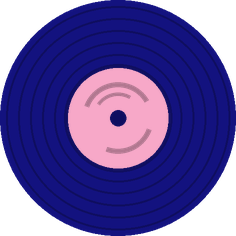
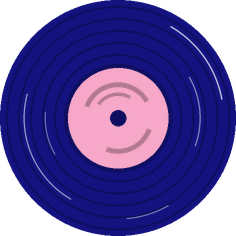
Records: white groove highlights so the spin reads

diff --git a/records/spin.html b/records/spin.html
@@ -24,7 +24,7 @@
     var v=p.get('v')==='next'?'upnext':'title';
     var bg=(p.get('bg')||'3A64D8').replace(/[^0-9A-Fa-f]/g,'').slice(0,6);
     document.body.style.background='#'+bg;
-    document.getElementById('rec').src='record_'+v+'_'+c+'.png?v=1';
+    document.getElementById('rec').src='record_'+v+'_'+c+'.png?v=2';
   </script>
 </body>
 </html>
